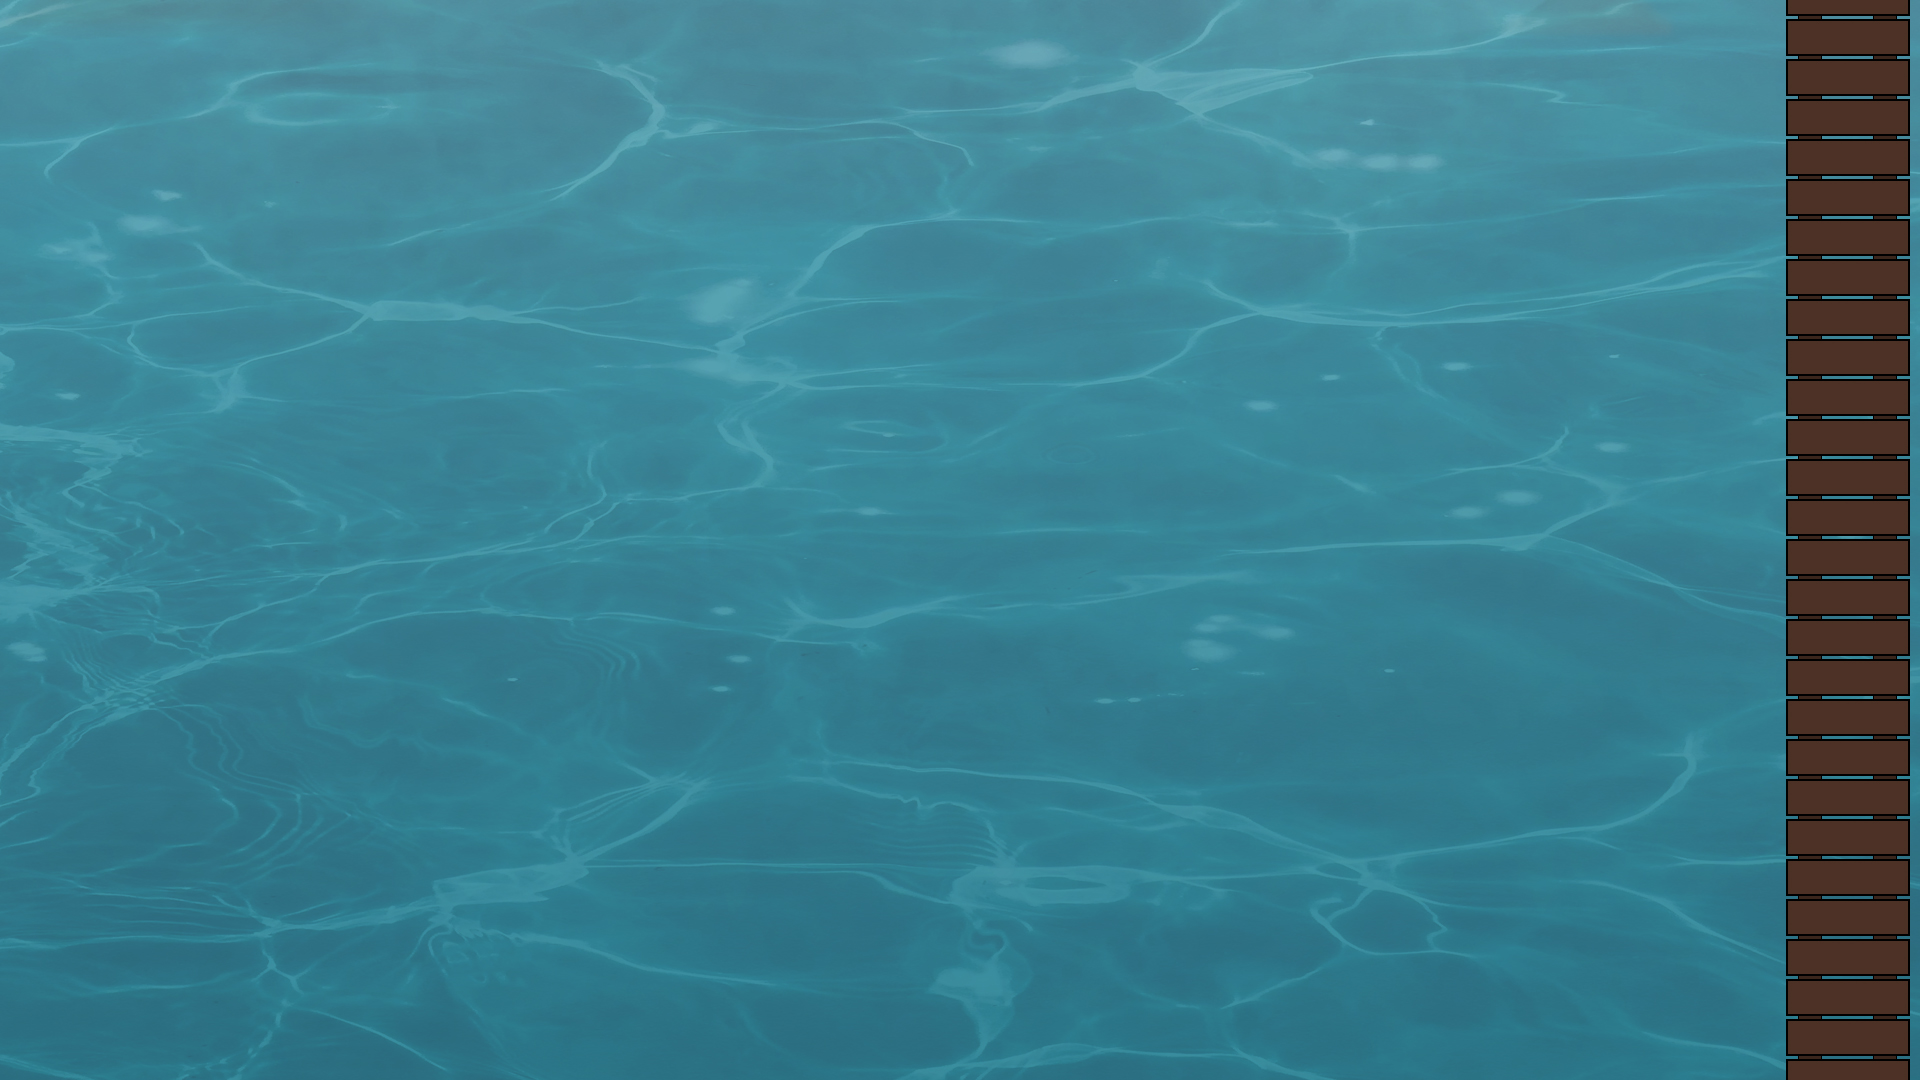
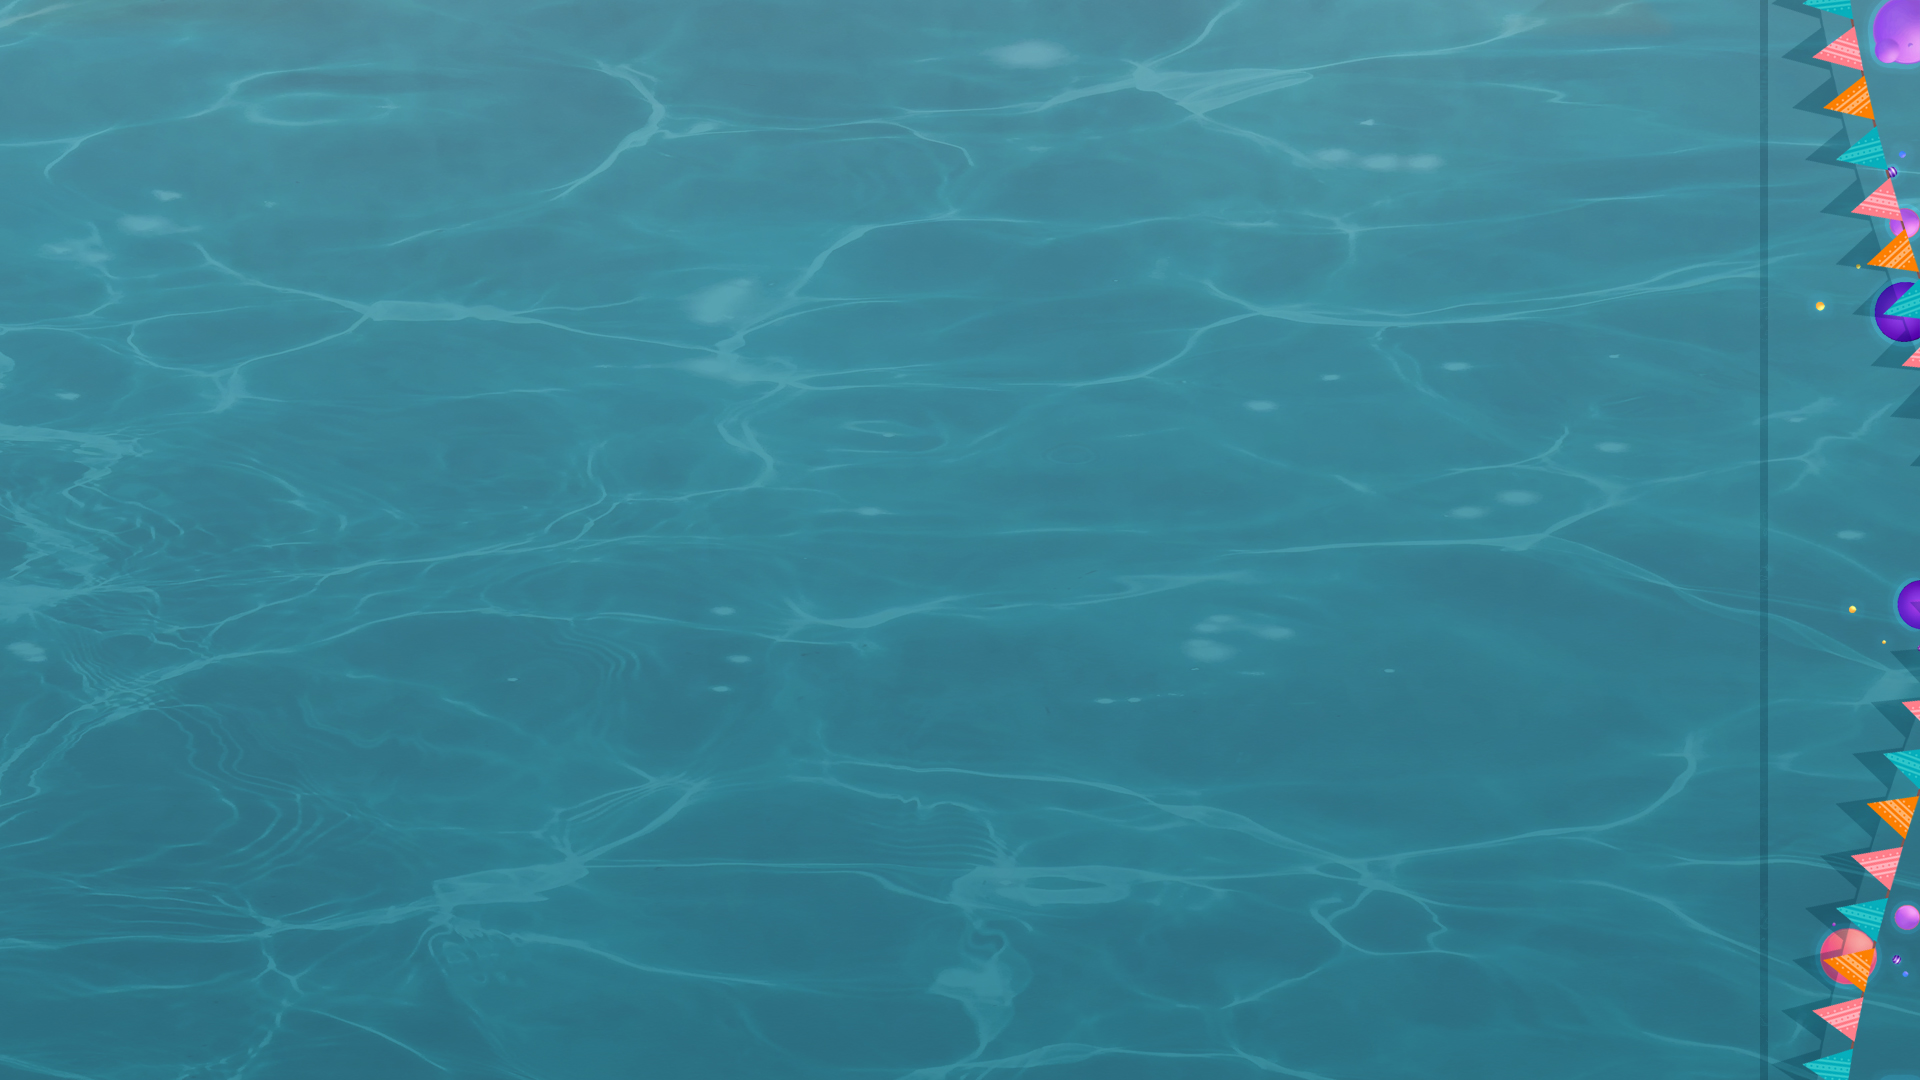
修正参数、素材，添加小鼓上的队名

Changed region(s): [[0.9062, 0.0, 1.0, 1.0]]

diff --git a/src/core/shoot.js b/src/core/shoot.js
@@ -8,7 +8,7 @@ export const boats: { position: [number, number] }[] = new Array(8).fill().map((
 }));
 
 const seats: { position: [number, number] }[] = new Array(20).fill().map((_, index) => ({
-    position: [150 + 140 * (index % 10), (index / 10 | 0) === 0 ? 0 : 60],
+    position: [150 + 140 * (index % 10), (index / 10 | 0) === 0 ? 10 : 60],
 }));
 
 export const calcPosition = (boat: number, seat: number) => {
@@ -35,7 +35,7 @@ export type MovingMember = {
  * @param {number} turn 转向次数，队员路径顶点数.
  * @param {number} swing 摇摆力度
  */
-export const shootMember = (groups: ReturnType<typeof divideGroup>, freq = 1, turn = 3, swing = 1) => {
+export const shootMember = (groups: ReturnType<typeof divideGroup>, freq = 1.5, turn = 3, swing = 1) => {
     const seated: Subject<SeatedMember> = new Subject()
         .pipe(delay(turn * freq * 1000));
     const moving: Subject<MovingMember[]> = new Subject()
@@ -46,7 +46,7 @@ export const shootMember = (groups: ReturnType<typeof divideGroup>, freq = 1, tu
             .map((group, boat) => group.map(({ type: _, ...member }, seat): SeatedMember => ({ ...member, position: calcPosition(boat, seat) })))
             .reduce((members, group) => [...members, ...group], [])
         ),
-        null, null, null, // 最后来几个空数据占位
+        ...new Array(1 + turn).fill(null), // 最后来几个空数据占位
     ])
         .pipe(zip(interval(freq * 1000), member => member))
         .subscribe(member => {
@@ -64,7 +64,7 @@ const shootPathFit = (freq: number, turn: number, swing: number) => {
         [member, ...history.slice(0, turn)].map(
             (member, index): MovingMember => {
                 if (member == null) return null;
-                const { name, position } = member;            // 目标坐标
+                const { name, position } = member;      // 目标坐标
                 const progress = index / turn;          // 当前进度
                 const origin = shootOrigin(position);   // 起点坐标
                 const even = index % 2 === 0;           // 奇偶次数
@@ -81,8 +81,8 @@ const shootPathFit = (freq: number, turn: number, swing: number) => {
                 return {
                     name: index < turn ? name : null,
                     position: [...position.slice(0, 2), 1, velocityAngle(velocity)],
-                    vertex: [...vertex, progress, (even ? 1 : -1) ? 0 : 1],
-                    bezier: [...bezier, 1 / framesTotal, (even ? -1 : 1) / frames],
+                    vertex: [...vertex, progress, even ? -1 : 1],
+                    bezier: [...bezier, 1 / framesTotal, (even ? 2 : -2) / frames],
                     gravity,
                 };
             }

diff --git a/src/game/Scene0/index.js b/src/game/Scene0/index.js
@@ -1,4 +1,4 @@
-import React, {  useMemo, useEffect, useCallback } from 'react';
+import React, { useMemo, useEffect, useCallback } from 'react';
 import { useResource, Sprite, Gradient } from '../../pixi';
 import { Progress } from '../../pixi/Progress';
 import Loading from '../Loading';
@@ -34,19 +34,20 @@ const Scene0 = () => {
 
     return (
         <Progress completed={resource} indicator={Loading}>
-            <Sprite texture={texture('bg')} />
-            <>
-                {boats.map(({ position: [x, y] }, index) => (
-                    <Sprite key={index} texture={texture(index % 2 ? 'boat' : 'boat')} position={{ x, y }} />
-                ))}
-            </>
-            <UI className="SeatMembers" scaleMode={true}>
+            <UI className="Scene0" scaleMode={true}>
+                <Sprite texture={texture('bg')} />
+                <>
+                    {boats.map(({ position: [x, y] }, index) => (
+                        <Sprite key={index} texture={texture(index % 2 ? 'boat' : 'boat')} position={{ x, y }}>
+                            <span className="boatName" style={{ top: y }}>{`${1 + index}队`}</span>
+                        </Sprite>
+                    ))}
+                </>
                 {seated.filter(member => member != null).map(({ name, position: [left, top] }) => (
                     <span className="member" key={name} style={{ left, top }}>{name}</span>
                 ))}
                 {moving.filter(member => member != null).map(({ name, position, vertex, bezier, gravity }) => (
-                    <MovingMember key={name} name={name} angle={position[3]} position={vertex} velocity={bezier} gravity={gravity}>
-                    </MovingMember>
+                    <MovingMember key={name} name={name} angle={position[3]} position={vertex} velocity={bezier} gravity={gravity} />
                 ))}
             </UI>
         </Progress>
@@ -65,7 +66,7 @@ interface MovingMemberProps {
 const MovingMember = ({ name, angle, position, velocity, gravity }: MovingMemberProps) => (
     <Gradient {...Gradient.Velocity({ position, velocity, gravity })}>{({ position: [left, top, progress, rotate] }) => (
         <div className="member" style={{ left, top, transform: `scale(${1 + (1 - progress) * 2})` }}>
-            <img src={images.plane} alt={name} style={{ transform: `rotate(${angle + 0.05 * Math.sin(rotate * Math.PI)}turn)` }} />
+            <img src={images.plane} alt={name} style={{ transform: `rotate(${angle + rotate / 20}turn)` }} />
             {name && <span>{name}</span>}
         </div>
     )}</Gradient>

diff --git a/src/game/Scene0/index.css b/src/game/Scene0/index.css
@@ -1,12 +1,25 @@
-.SeatMembers .member {
+.Scene0 .boatName {
     position: absolute;
     white-space: nowrap;
     color: #fff;
+    right: 280px;
+    height: 110px;
+    line-height: 110px;
     font-size: 36px;
     font-weight: bold;
-    text-shadow: 3px 3px 03px #000;
+    text-shadow: 0px -3px 3px #1d3e12, 0px 3px 3px #1d3e12, -3px 0px 3px #1d3e12, 3px 0px 3px #1d3e12;
 }
-.SeatMembers .member>img {
+
+.Scene0 .member {
+    position: absolute;
+    white-space: nowrap;
+    color: #fff;
+    font-size: 32px;
+    font-weight: bold;
+    -webkit-text-stroke: 1px #000;
+    text-shadow: 0px -3px 3px #000, 0px 3px 3px #000, -3px 0px 3px #000, 3px 0px 3px #000;
+}
+.Scene0 .member>img {
     position: absolute;
     max-width: 150px;
     left: -20px;
